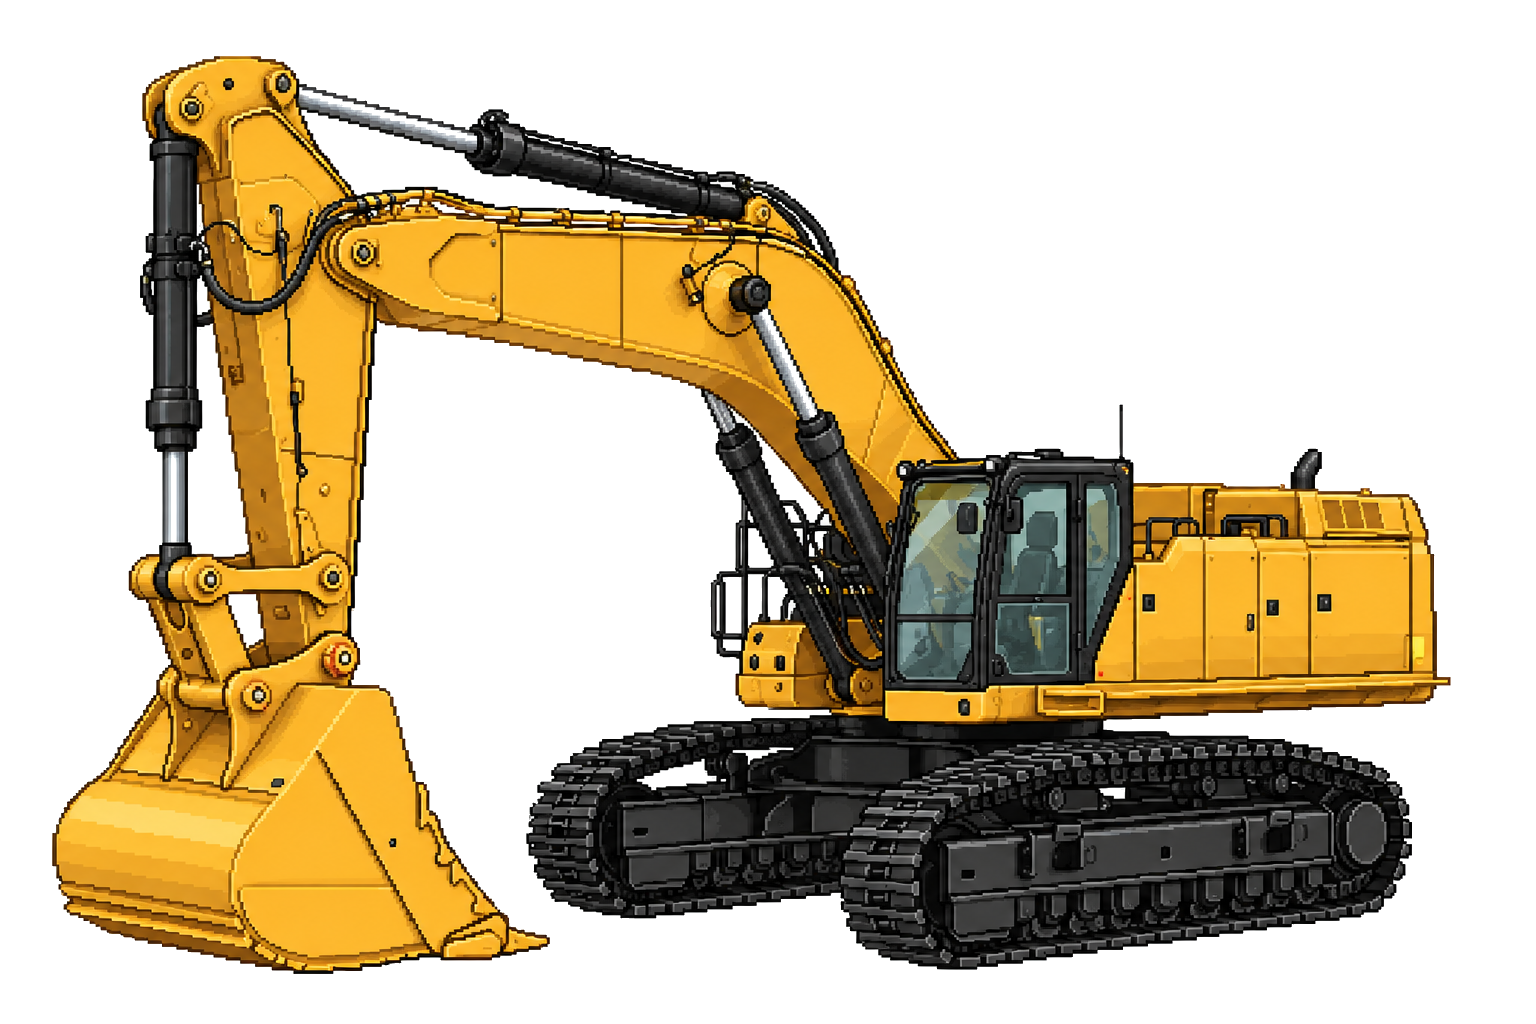
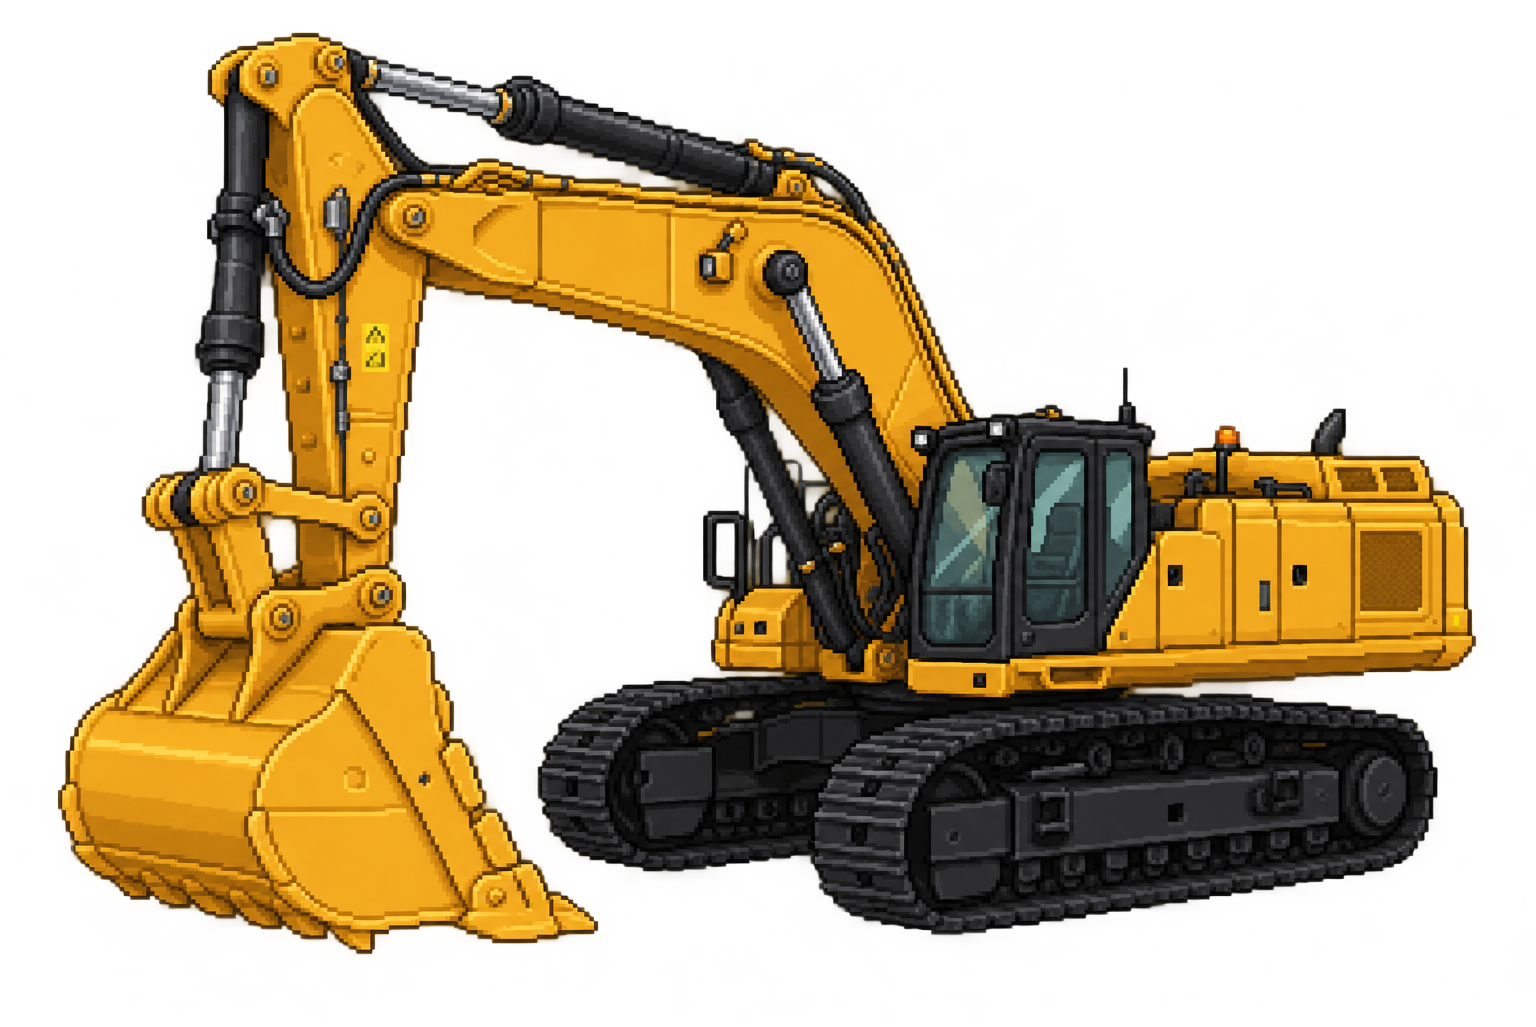
fix(PORCARIA): CAT 395 +3 px transparentes e cache atualizado
* fix(CAT 395): substituir sprite +3 px transparentes e versionar Phaser/PWA

* test: atualizar referências do sprite 395 e cache (lote 1)

* test: atualizar referências do sprite 395 e cache (lote 2)

* test: atualizar referências do sprite 395 e cache (lote final)

diff --git a/sw.js b/sw.js
@@ -1,6 +1,6 @@
 /* P.O.R.C.A.R.I.A.: network-first para sempre atualizar o Pages; offline como fallback. */
-const CACHE='porcaria-vqec-20261019-v110';
-const CORE=['./','./index.html','./engine.js','./competency.js','./training.js','./game-data.json','./manifest.webmanifest','./icon-192.png','./icon-512.png','./phaser-play/index.html','./phaser-play/game.js','./phaser-play/training-view.js','./phaser-play/order-quick.js','./phaser-play/render-quality.js','./phaser-play/assets/equipment/cat777e_v3.webp','./phaser-play/assets/equipment/sandvik_dr410i_v2.webp','./phaser-play/assets/equipment/sandvik_di650i_v0828.webp','./phaser-play/assets/equipment/cat966-loader-v0819.webp','./phaser-play/assets/equipment/cat16-grader-v0819.webp','./phaser-play/assets/equipment/catd9-dozer-v0819.webp','./phaser-play/assets/characters/costa-4poses.webp','./phaser-play/assets/characters/barbosa-4poses.webp','./phaser-play/assets/characters/garcia-4poses.webp','./phaser-play/assets/characters/braga-4poses.webp','./phaser-play/assets/characters/almeida-4poses.webp','./phaser-play/assets/characters/sousa-4poses.webp','./phaser-play/assets/characters/pereira-4poses.webp','./phaser-play/assets/characters/silva-4poses.webp','./phaser-play/assets/characters/santos-4poses.webp','./phaser-play/assets/characters/moura-4poses.webp','./phaser-play/assets/characters/pedro-v0829-4poses.png','./phaser-play/assets/characters/geovane-4poses.webp','./phaser-play/assets/characters/acassio-4poses.png','./phaser-play/assets/characters/bia/bia-feedback-4poses.webp','./phaser-play/assets/characters/junior/junior-work-4poses.webp','./phaser-play/assets/characters/junior/junior-training-4poses.webp','./phaser-play/readiness.js','./phaser-play/diagnostic-board.js','./phaser-play/diagnostic-view.js','./phaser-play/closed-orders.js','./phaser-play/scene-map.json','./phaser-play/assets/oficina-base.avif','./phaser-play/assets/oficina-diurna-fullframe.avif','./phaser-play/assets/oficina-noturna-hq.avif'];
+const CACHE='porcaria-vqec-20261019-v111';
+const CORE=['./','./index.html','./engine.js','./competency.js','./training.js','./game-data.json','./manifest.webmanifest','./icon-192.png','./icon-512.png','./phaser-play/index.html','./phaser-play/game.js','./phaser-play/training-view.js','./phaser-play/order-quick.js','./phaser-play/render-quality.js','./phaser-play/assets/equipment/cat777e_v3.webp','./phaser-play/assets/equipment/cat395.png','./phaser-play/assets/equipment/sandvik_dr410i_v2.webp','./phaser-play/assets/equipment/sandvik_di650i_v0828.webp','./phaser-play/assets/equipment/cat966-loader-v0819.webp','./phaser-play/assets/equipment/cat16-grader-v0819.webp','./phaser-play/assets/equipment/catd9-dozer-v0819.webp','./phaser-play/assets/characters/costa-4poses.webp','./phaser-play/assets/characters/barbosa-4poses.webp','./phaser-play/assets/characters/garcia-4poses.webp','./phaser-play/assets/characters/braga-4poses.webp','./phaser-play/assets/characters/almeida-4poses.webp','./phaser-play/assets/characters/sousa-4poses.webp','./phaser-play/assets/characters/pereira-4poses.webp','./phaser-play/assets/characters/silva-4poses.webp','./phaser-play/assets/characters/santos-4poses.webp','./phaser-play/assets/characters/moura-4poses.webp','./phaser-play/assets/characters/pedro-v0829-4poses.png','./phaser-play/assets/characters/geovane-4poses.webp','./phaser-play/assets/characters/acassio-4poses.png','./phaser-play/assets/characters/bia/bia-feedback-4poses.webp','./phaser-play/assets/characters/junior/junior-work-4poses.webp','./phaser-play/assets/characters/junior/junior-training-4poses.webp','./phaser-play/readiness.js','./phaser-play/diagnostic-board.js','./phaser-play/diagnostic-view.js','./phaser-play/closed-orders.js','./phaser-play/scene-map.json','./phaser-play/assets/oficina-base.avif','./phaser-play/assets/oficina-diurna-fullframe.avif','./phaser-play/assets/oficina-noturna-hq.avif'];
 self.addEventListener('install',e=>{e.waitUntil(caches.open(CACHE).then(c=>c.addAll(CORE)));self.skipWaiting()});
 self.addEventListener('activate',e=>{e.waitUntil(caches.keys().then(keys=>Promise.all(keys.filter(k=>k.startsWith('porcaria-vqec-')&&k!==CACHE).map(k=>caches.delete(k)))).then(()=>self.clients.claim()))});
 self.addEventListener('fetch',e=>{

diff --git a/phaser-play/index.html b/phaser-play/index.html
@@ -591,4 +591,4 @@ body{min-height:100vh}
 <div id="toast" class="toast" role="status" aria-live="polite" hidden></div>
 
 <script src="https://cdn.jsdelivr.net/npm/phaser@3.90.0/dist/phaser.min.js"></script>
-<script src="../training.js?v=0.8.28"></script><script src="../competency.js?v=0.8.27"></script><script src="../engine.js"></script><script src="./layout-math.js?v=0.8.2"></script><script src="./shift-brief.js?v=0.7.7"></script><script src="./planning.js?v=0.8.27"></script><script src="./weekly.js?v=0.7.9"></script><script src="./readiness.js?v=0.8.8"></script><script src="./diagnostic-board.js?v=0.8.8"></script><script src="./diagnostic-view.js?v=0.8.8"></script><script src="./closed-orders.js?v=0.8.11"></script><script src="./render-quality.js?v=0.8.22"></script><script src="./order-quick.js?v=0.8.24"></script><script src="./training-view.js?v=0.8.30"></script><script src="./game.js?v=0.8.31"></script><script>if("serviceWorker" in navigator)navigator.serviceWorker.register("../sw.js").catch(console.warn);</script></body></html>
+<script src="../training.js?v=0.8.28"></script><script src="../competency.js?v=0.8.27"></script><script src="../engine.js"></script><script src="./layout-math.js?v=0.8.2"></script><script src="./shift-brief.js?v=0.7.7"></script><script src="./planning.js?v=0.8.27"></script><script src="./weekly.js?v=0.7.9"></script><script src="./readiness.js?v=0.8.8"></script><script src="./diagnostic-board.js?v=0.8.8"></script><script src="./diagnostic-view.js?v=0.8.8"></script><script src="./closed-orders.js?v=0.8.11"></script><script src="./render-quality.js?v=0.8.22"></script><script src="./order-quick.js?v=0.8.24"></script><script src="./training-view.js?v=0.8.30"></script><script src="./game.js?v=0.8.32"></script><script>if("serviceWorker" in navigator)navigator.serviceWorker.register("../sw.js").catch(console.warn);</script></body></html>

diff --git a/phaser-play/game.js b/phaser-play/game.js
@@ -1,4 +1,4 @@
-/* P.O.R.C.A.R.I.A. Phaser vertical slice v0.8.31 · motor de simulacao v1.1 */
+/* P.O.R.C.A.R.I.A. Phaser vertical slice v0.8.32 · motor de simulacao v1.1 */
 (() => {
 'use strict';
 const $=id=>document.getElementById(id);
@@ -8,7 +8,7 @@ const SAVE='porcaria.phaser.prototype.v01';
 const ASSETS={
  truck:'./assets/equipment/cat777e_v3.webp',
  shovel:'./assets/equipment/cat6030.png',
- excavator:'./assets/equipment/cat395.png',
+ excavator:'./assets/equipment/cat395.png?v=20261019-3px',
  drill:'./assets/equipment/sandvik_di650i_v0828.webp', // DI650i: arte original do usuário, WebP VP8L lossless com alfa.
  dr410i:'./assets/equipment/sandvik_dr410i_v2.webp', // imagem DR410i fornecida pelo jogador.
  dozer:'./assets/equipment/catd9-dozer-v0819.webp',
